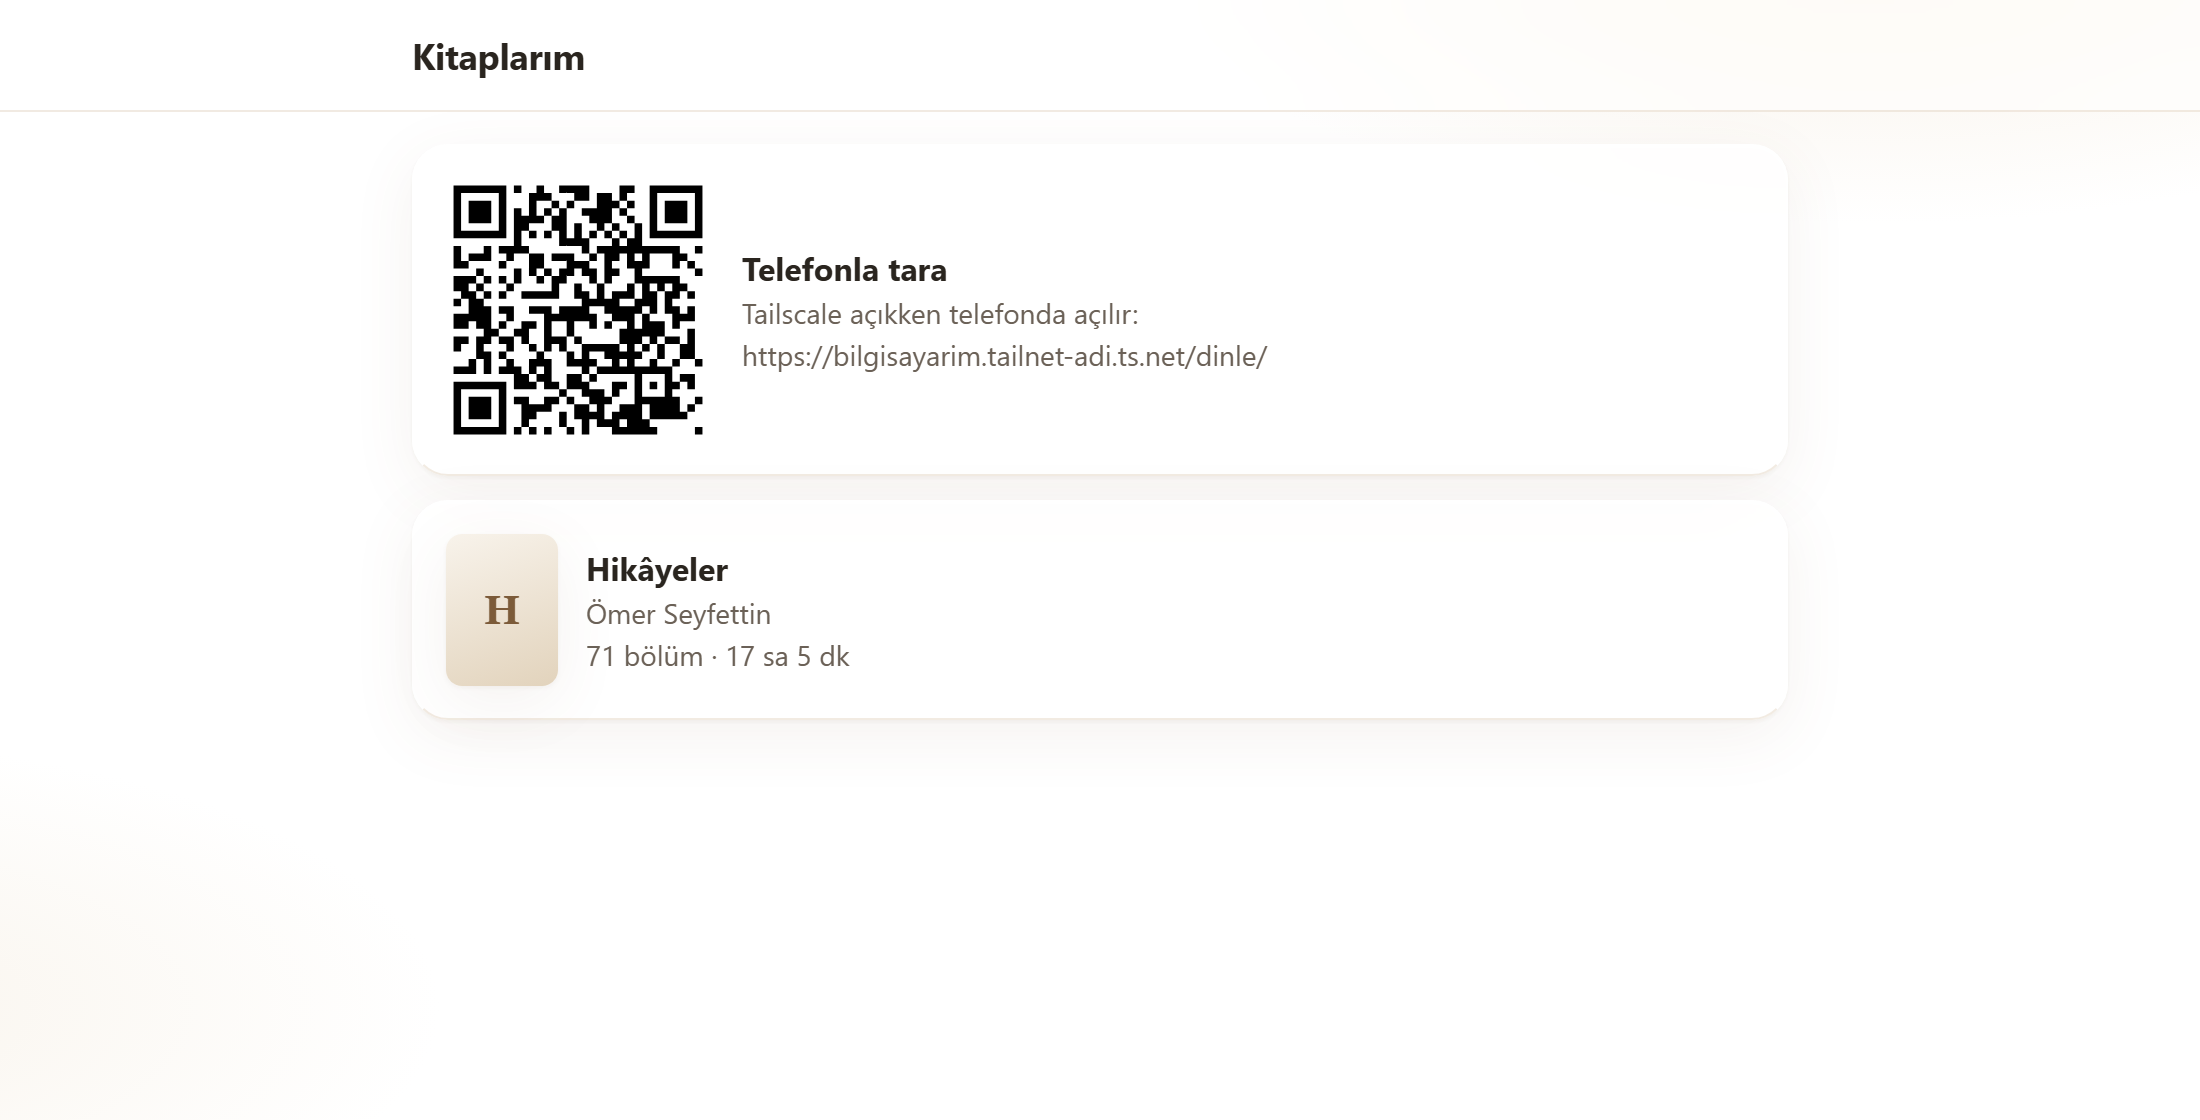
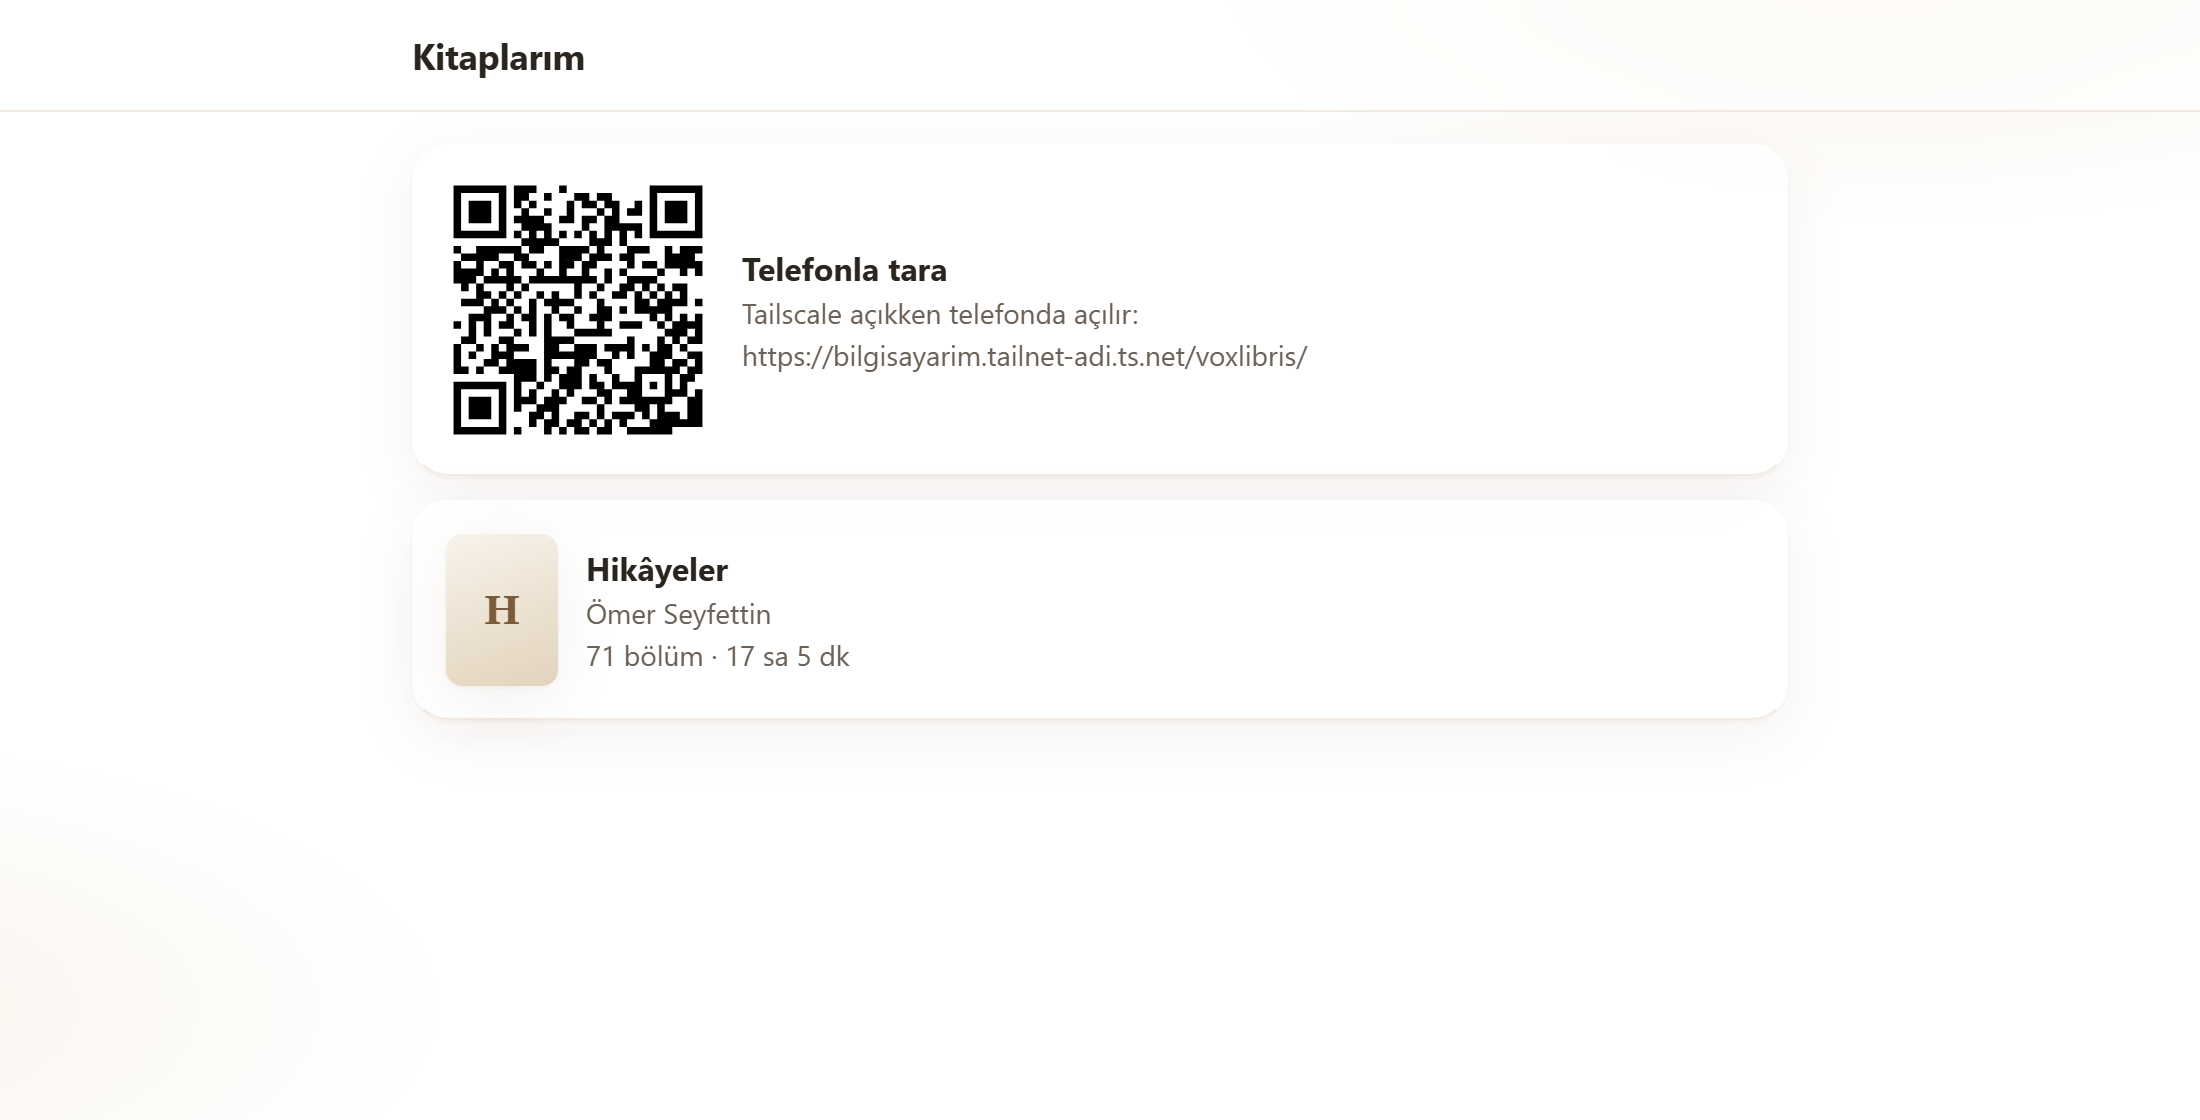
Proje adı: VoxLibris
Paket dinle -> voxlibris; komutlar python -m voxlibris.*, görev VoxLibris-Sunucu,
Tailscale yolu /voxlibris. Ekran görüntüleri yeni adla yenilendi.

Changed region(s): [[0.1855, 0.1562, 0.34, 0.4062], [0.5255, 0.3125, 0.5873, 0.3438]]

diff --git a/voxlibris/sunucu.py b/voxlibris/sunucu.py
@@ -1,9 +1,9 @@
 """İndirme sunucusu: üretilen bölüm MP3'lerini telefondan dinlemek/indirmek için (S1 web oynatıcısından önceki ara adım).
 
-    python -m dinle.sunucu            # 127.0.0.1:8790; telefona `tailscale serve` ile açılır (kurulum/sunucu_kur.ps1)
+    python -m voxlibris.sunucu            # 127.0.0.1:8790; telefona `tailscale serve` ile açılır (kurulum/sunucu_kur.ps1)
 
 Sadece 127.0.0.1'e bağlanır: dışarıdan tek yol Tailscale (sadece tailnet, HTTPS). veri/sunucu.json'da "kullanici"
-varsa Tailscale-User-Login başlığı ona eşit olmayan istek 403 alır. tailscale serve "/dinle" önekini sildiği için
+varsa Tailscale-User-Login başlığı ona eşit olmayan istek 403 alır. tailscale serve "/voxlibris" önekini sildiği için
 sayfalardaki bütün bağlantılar görelidir.
 """
 import html
@@ -24,11 +24,11 @@ ADRES, PORT = "127.0.0.1", 8790
 _KITAP = re.compile(r"^[0-9a-f]{12}$")
 _VARYANT = re.compile(r"^[a-z]+-[a-z0-9]+$")
 _zip_kilidi = threading.Lock()
-log = logging.getLogger("dinle.sunucu")
+log = logging.getLogger("voxlibris.sunucu")
 
 
 def ayarlar(veri: Path = VERI) -> dict:
-    """veri/sunucu.json: {"genel_adres": "https://.../dinle/", "kullanici": "..."} (kurulum betiği yazar)."""
+    """veri/sunucu.json: {"genel_adres": "https://.../voxlibris/", "kullanici": "..."} (kurulum betiği yazar)."""
     try:
         return json.loads((veri / "sunucu.json").read_text(encoding="utf-8"))
     except (OSError, ValueError):
@@ -163,7 +163,7 @@ def _sayfa(baslik: str, govde: str, geri: str = "") -> bytes:
     geri_html = f'<a href="{geri}" aria-label="Geri">‹ Kitaplar</a>' if geri else ""
     return (f'<!doctype html><html lang="tr"><head><meta charset="utf-8"><meta name="viewport" '
             f'content="width=device-width,initial-scale=1"><meta name="theme-color" content="#FFFFFF">'
-            f'<title>{html.escape(baslik)} · Dinle</title><style>{STIL}</style></head><body>'
+            f'<title>{html.escape(baslik)} · VoxLibris</title><style>{STIL}</style></head><body>'
             f'<div class="ust">{geri_html}<h1>{html.escape(baslik)}</h1></div><main>{govde}</main></body></html>'
             ).encode("utf-8")
 
@@ -193,7 +193,7 @@ def ana_sayfa(liste: list, yerel: bool, ayar: dict) -> bytes:
                         f'{html.escape(k["yazar"] or "")}</div><div class="ikincil">{len(bolumler)} bölüm · '
                         f'{_sure(toplam)}</div></div></a>')
     if not liste:
-        parcalar.append('<div class="bos">Henüz hazır kitap yok.<br>Bilgisayarda: <code>python -m dinle.donustur '
+        parcalar.append('<div class="bos">Henüz hazır kitap yok.<br>Bilgisayarda: <code>python -m voxlibris.donustur '
                         'kitap.epub --bolum-mp3</code></div>')
     return _sayfa("Kitaplarım", "".join(parcalar))
 
@@ -223,7 +223,7 @@ def kitap_sayfasi(k: dict) -> bytes:
 
 # --- HTTP ---------------------------------------------------------------------------------------------------
 class Isleyici(BaseHTTPRequestHandler):
-    server_version = "Dinle"
+    server_version = "VoxLibris"
     veri = VERI
 
     def log_message(self, bicim, *arg):
@@ -327,7 +327,7 @@ def sunucu(veri: Path = VERI, adres: str = ADRES, port: int = PORT) -> Threading
 
 def main(argv=None) -> int:
     import argparse
-    ap = argparse.ArgumentParser(prog="python -m dinle.sunucu", description="Dinle indirme/dinleme sunucusu")
+    ap = argparse.ArgumentParser(prog="python -m voxlibris.sunucu", description="VoxLibris indirme/dinleme sunucusu")
     ap.add_argument("--adres", default=ADRES, help="varsayılan 127.0.0.1 (dışarıya Tailscale ile); ev ağı: 0.0.0.0")
     ap.add_argument("--port", type=int, default=PORT)
     a = ap.parse_args(argv)
@@ -343,7 +343,7 @@ def main(argv=None) -> int:
     log.info("başladı %s:%s", a.adres, a.port)
     adres = ayarlar().get("genel_adres")
     if sys.stderr:   # pythonw'da stderr yok
-        print(f"Dinle sunucusu: http://{a.adres}:{a.port}/" + (f"  ·  telefondan: {adres}" if adres else ""), file=sys.stderr)
+        print(f"VoxLibris sunucusu: http://{a.adres}:{a.port}/" + (f"  ·  telefondan: {adres}" if adres else ""), file=sys.stderr)
     try:
         s.serve_forever()
     except KeyboardInterrupt:

diff --git a/tests/test_sunucu.py b/tests/test_sunucu.py
@@ -11,8 +11,8 @@ import zipfile
 from contextlib import redirect_stderr, redirect_stdout
 from pathlib import Path
 
-from dinle import donustur, sunucu
-from dinle.ses import uretici
+from voxlibris import donustur, sunucu
+from voxlibris.ses import uretici
 from tests.test_epub import epub_yap
 
 
@@ -27,7 +27,7 @@ class Sunucu(unittest.TestCase):
         with redirect_stdout(io.StringIO()) as cikti, redirect_stderr(io.StringIO()) as cls.hata:
             donustur.main([str(kitap), "--motor", "sahte", "--veri", str(cls.veri), "--json"])
         cls.ozet = json.loads(cikti.getvalue().strip().splitlines()[-1])
-        (cls.veri / "sunucu.json").write_text(json.dumps({"genel_adres": "https://pc.ts.net/dinle/",
+        (cls.veri / "sunucu.json").write_text(json.dumps({"genel_adres": "https://pc.ts.net/voxlibris/",
                                                           "kullanici": "sahip@ornek.com"}), encoding="utf-8")
         cls.s = sunucu.sunucu(cls.veri, port=0)
         cls.taban = f"http://127.0.0.1:{cls.s.server_address[1]}/"
@@ -49,7 +49,7 @@ class Sunucu(unittest.TestCase):
         metin = govde.decode()
         self.assertEqual(kod, 200)
         self.assertIn("Deneme Kitabı", metin)
-        self.assertIn(f'href="k/{self.ozet["kimlik"]}/"', metin)      # görece bağlantı (tailscale /dinle öneki)
+        self.assertIn(f'href="k/{self.ozet["kimlik"]}/"', metin)      # görece bağlantı (tailscale /voxlibris öneki)
         self.assertNotIn("Telefonla tara", metin)                       # QR sadece bilgisayardan açınca
         self.assertIn("Telefonla tara", self._al("")[2].decode())
         _, _, govde = self._al(f"k/{self.ozet['kimlik']}/")
@@ -87,7 +87,7 @@ class Sunucu(unittest.TestCase):
 
     def test_donustur_linki_yazar(self):
         self.assertEqual(sunucu.kitap_linki(self.ozet["kimlik"], self.veri),
-                         f"https://pc.ts.net/dinle/k/{self.ozet['kimlik']}/")
+                         f"https://pc.ts.net/voxlibris/k/{self.ozet['kimlik']}/")
 
 
 if __name__ == "__main__":

diff --git a/voxlibris/donustur.py b/voxlibris/donustur.py
@@ -1,9 +1,9 @@
 """Kitabı sayfa sayfa sese çevirir (komut satırı). Yarıda kesilirse tekrar çalıştırınca kaldığı yerden devam eder.
 
-    python -m dinle.donustur kitap.epub                    # tüm kitap, Piper dfki sesi
-    python -m dinle.donustur kitap.pdf --sayfalar 1-10 --ses fettah
-    python -m dinle.donustur kitap.pdf --sadece-metin       # ses üretmeden sayfalara bölünmüş metni hazırla
-    python -m dinle.donustur kitap.epub --bolum-mp3        # bitince bölüm başına tek MP3 + kitap.m3u
+    python -m voxlibris.donustur kitap.epub                    # tüm kitap, Piper dfki sesi
+    python -m voxlibris.donustur kitap.pdf --sayfalar 1-10 --ses fettah
+    python -m voxlibris.donustur kitap.pdf --sadece-metin       # ses üretmeden sayfalara bölünmüş metni hazırla
+    python -m voxlibris.donustur kitap.epub --bolum-mp3        # bitince bölüm başına tek MP3 + kitap.m3u
 
 Çıktı: veri/kitaplar/<kimlik>/kitap.json (sayfalar, cümleler) ve ses/<motor>-<ses>/0001.mp3 + 0001.json (süre, cümle
 zamanları). --json ile son satırda makinece okunabilir özet (otomasyon için).
@@ -177,7 +177,7 @@ def indirme_linki(ozet: dict, veri: Path) -> None:
 
 
 def main(argv=None) -> int:
-    ap = argparse.ArgumentParser(prog="python -m dinle.donustur", description="EPUB/PDF'i yerel sesle sese çevirir.")
+    ap = argparse.ArgumentParser(prog="python -m voxlibris.donustur", description="EPUB/PDF'i yerel sesle sese çevirir.")
     ap.add_argument("kitap", type=Path)
     ap.add_argument("--ses", default="dfki", help="Piper sesi: dfki, fahrettin, fettah")
     ap.add_argument("--hiz", type=float, default=1.0, help="konuşma hızı (sentezde; oynatıcıda ayrıca değişir)")

diff --git a/araclar/ornek_kitap.py b/araclar/ornek_kitap.py
@@ -46,7 +46,7 @@ def epub_yap(hikayeler: list, yol: Path) -> None:
                    f'<nav epub:type="toc"><ol>{"".join(nav)}</ol></nav></body></html>')
         z.writestr("OEBPS/content.opf", '<?xml version="1.0" encoding="utf-8"?><package xmlns="http://www.idpf.org/2007/opf" '
                    'version="3.0" unique-identifier="id"><metadata xmlns:dc="http://purl.org/dc/elements/1.1/">'
-                   f'<dc:identifier id="id">dinle-ornek-omer-seyfettin</dc:identifier><dc:title>{BASLIK}</dc:title>'
+                   f'<dc:identifier id="id">voxlibris-ornek-omer-seyfettin</dc:identifier><dc:title>{BASLIK}</dc:title>'
                    f'<dc:creator>{YAZAR}</dc:creator><dc:language>tr</dc:language></metadata><manifest>'
                    '<item id="nav" href="nav.xhtml" media-type="application/xhtml+xml" properties="nav"/>'
                    f'{"".join(manifest)}</manifest><spine>{"".join(spine)}</spine></package>')

diff --git a/tests/test_donustur.py b/tests/test_donustur.py
@@ -7,9 +7,9 @@ import unittest
 from contextlib import redirect_stderr, redirect_stdout
 from pathlib import Path
 
-from dinle import donustur
-from dinle.ses import uretici
-from dinle.ses.motor import SahteMotor
+from voxlibris import donustur
+from voxlibris.ses import uretici
+from voxlibris.ses.motor import SahteMotor
 from tests.test_epub import epub_yap
 
 KOK = Path(__file__).resolve().parent.parent
@@ -78,7 +78,7 @@ class Donustur(unittest.TestCase):
                      "pypdfium2 ya da örnek PDF yok (araclar/ornek_kitap.py)")
 class OrnekPdf(unittest.TestCase):
     def test_gercek_boyutlu_kitap(self):
-        from dinle.metin import bol, pdf
+        from voxlibris.metin import bol, pdf
         k = pdf.oku(KOK / "ornekler" / "omer-seyfettin.pdf")
         sayfalar = bol.sayfala(k)
         self.assertEqual(len(k.bolumler), 72)                 # kitap adı + 71 hikâye (yer imlerinden)

diff --git a/araclar/chatterbox_olc.py b/araclar/chatterbox_olc.py
@@ -15,7 +15,7 @@ from pathlib import Path
 KOK = Path(__file__).resolve().parent.parent
 sys.path.insert(0, str(KOK))
 
-from dinle.metin.okunus import okunus  # noqa: E402
+from voxlibris.metin.okunus import okunus  # noqa: E402
 
 YEDEK = ("Bir sonbahar sabahı, Ahmet Bey eski konağın kapısını açtı. Bahçedeki çınar ağacının yaprakları sararmış, "
          "rüzgârla birlikte yere dökülüyordu. — Hoş geldiniz, dedi. Selim pencerenin önüne oturdu, çayını yudumladı "

diff --git a/tests/test_epub.py b/tests/test_epub.py
@@ -4,8 +4,8 @@ import unittest
 import zipfile
 from pathlib import Path
 
-from dinle.metin import epub
-from dinle.metin.model import KitapHatasi
+from voxlibris.metin import epub
+from voxlibris.metin.model import KitapHatasi
 
 CONTAINER = ('<?xml version="1.0"?><container version="1.0" xmlns="urn:oasis:names:tc:opendocument:xmlns:container">'
              '<rootfiles><rootfile full-path="OPS/paket.opf" media-type="application/oebps-package+xml"/></rootfiles>'

diff --git a/tests/test_metin.py b/tests/test_metin.py
@@ -1,8 +1,8 @@
 """Metin katmanı (stdlib): cümle bölme, okunuş, temizlik, sayfalama. Ek paket gerektirmez."""
 import unittest
 
-from dinle.metin import bol, okunus, temizle
-from dinle.metin.model import Blok, Kitap
+from voxlibris.metin import bol, okunus, temizle
+from voxlibris.metin.model import Blok, Kitap
 
 
 def cumleler(metin):
